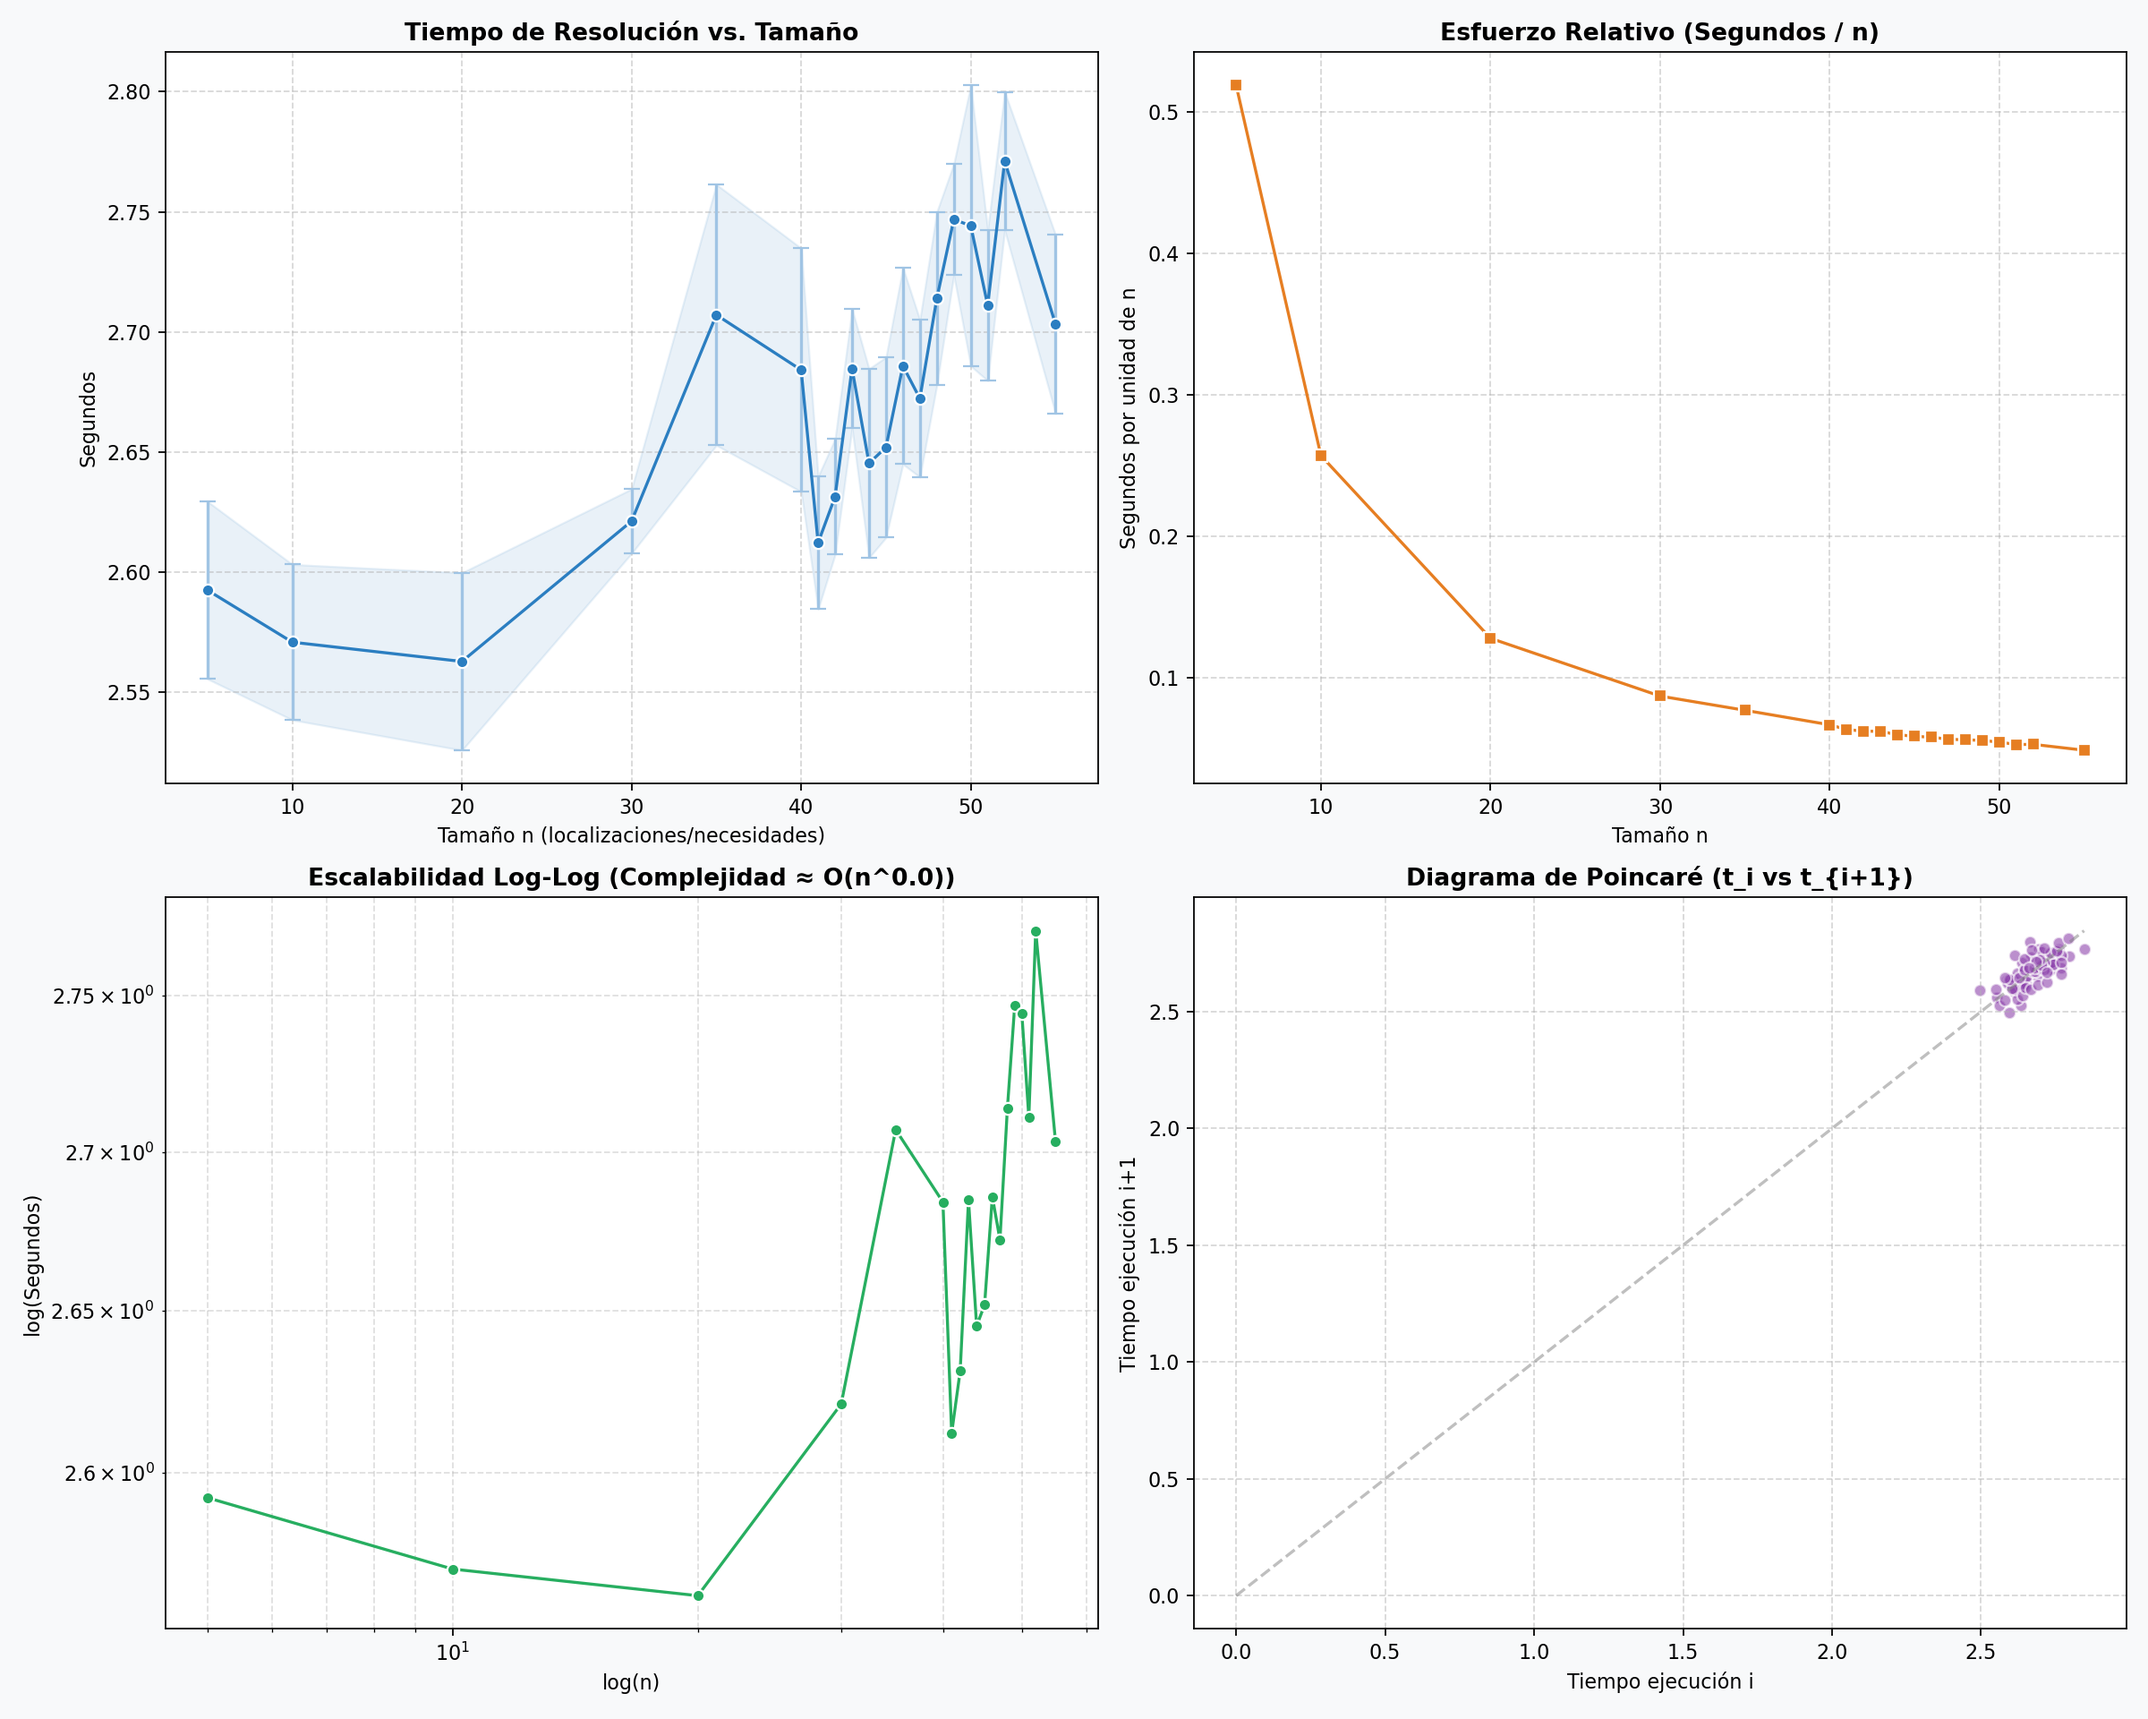
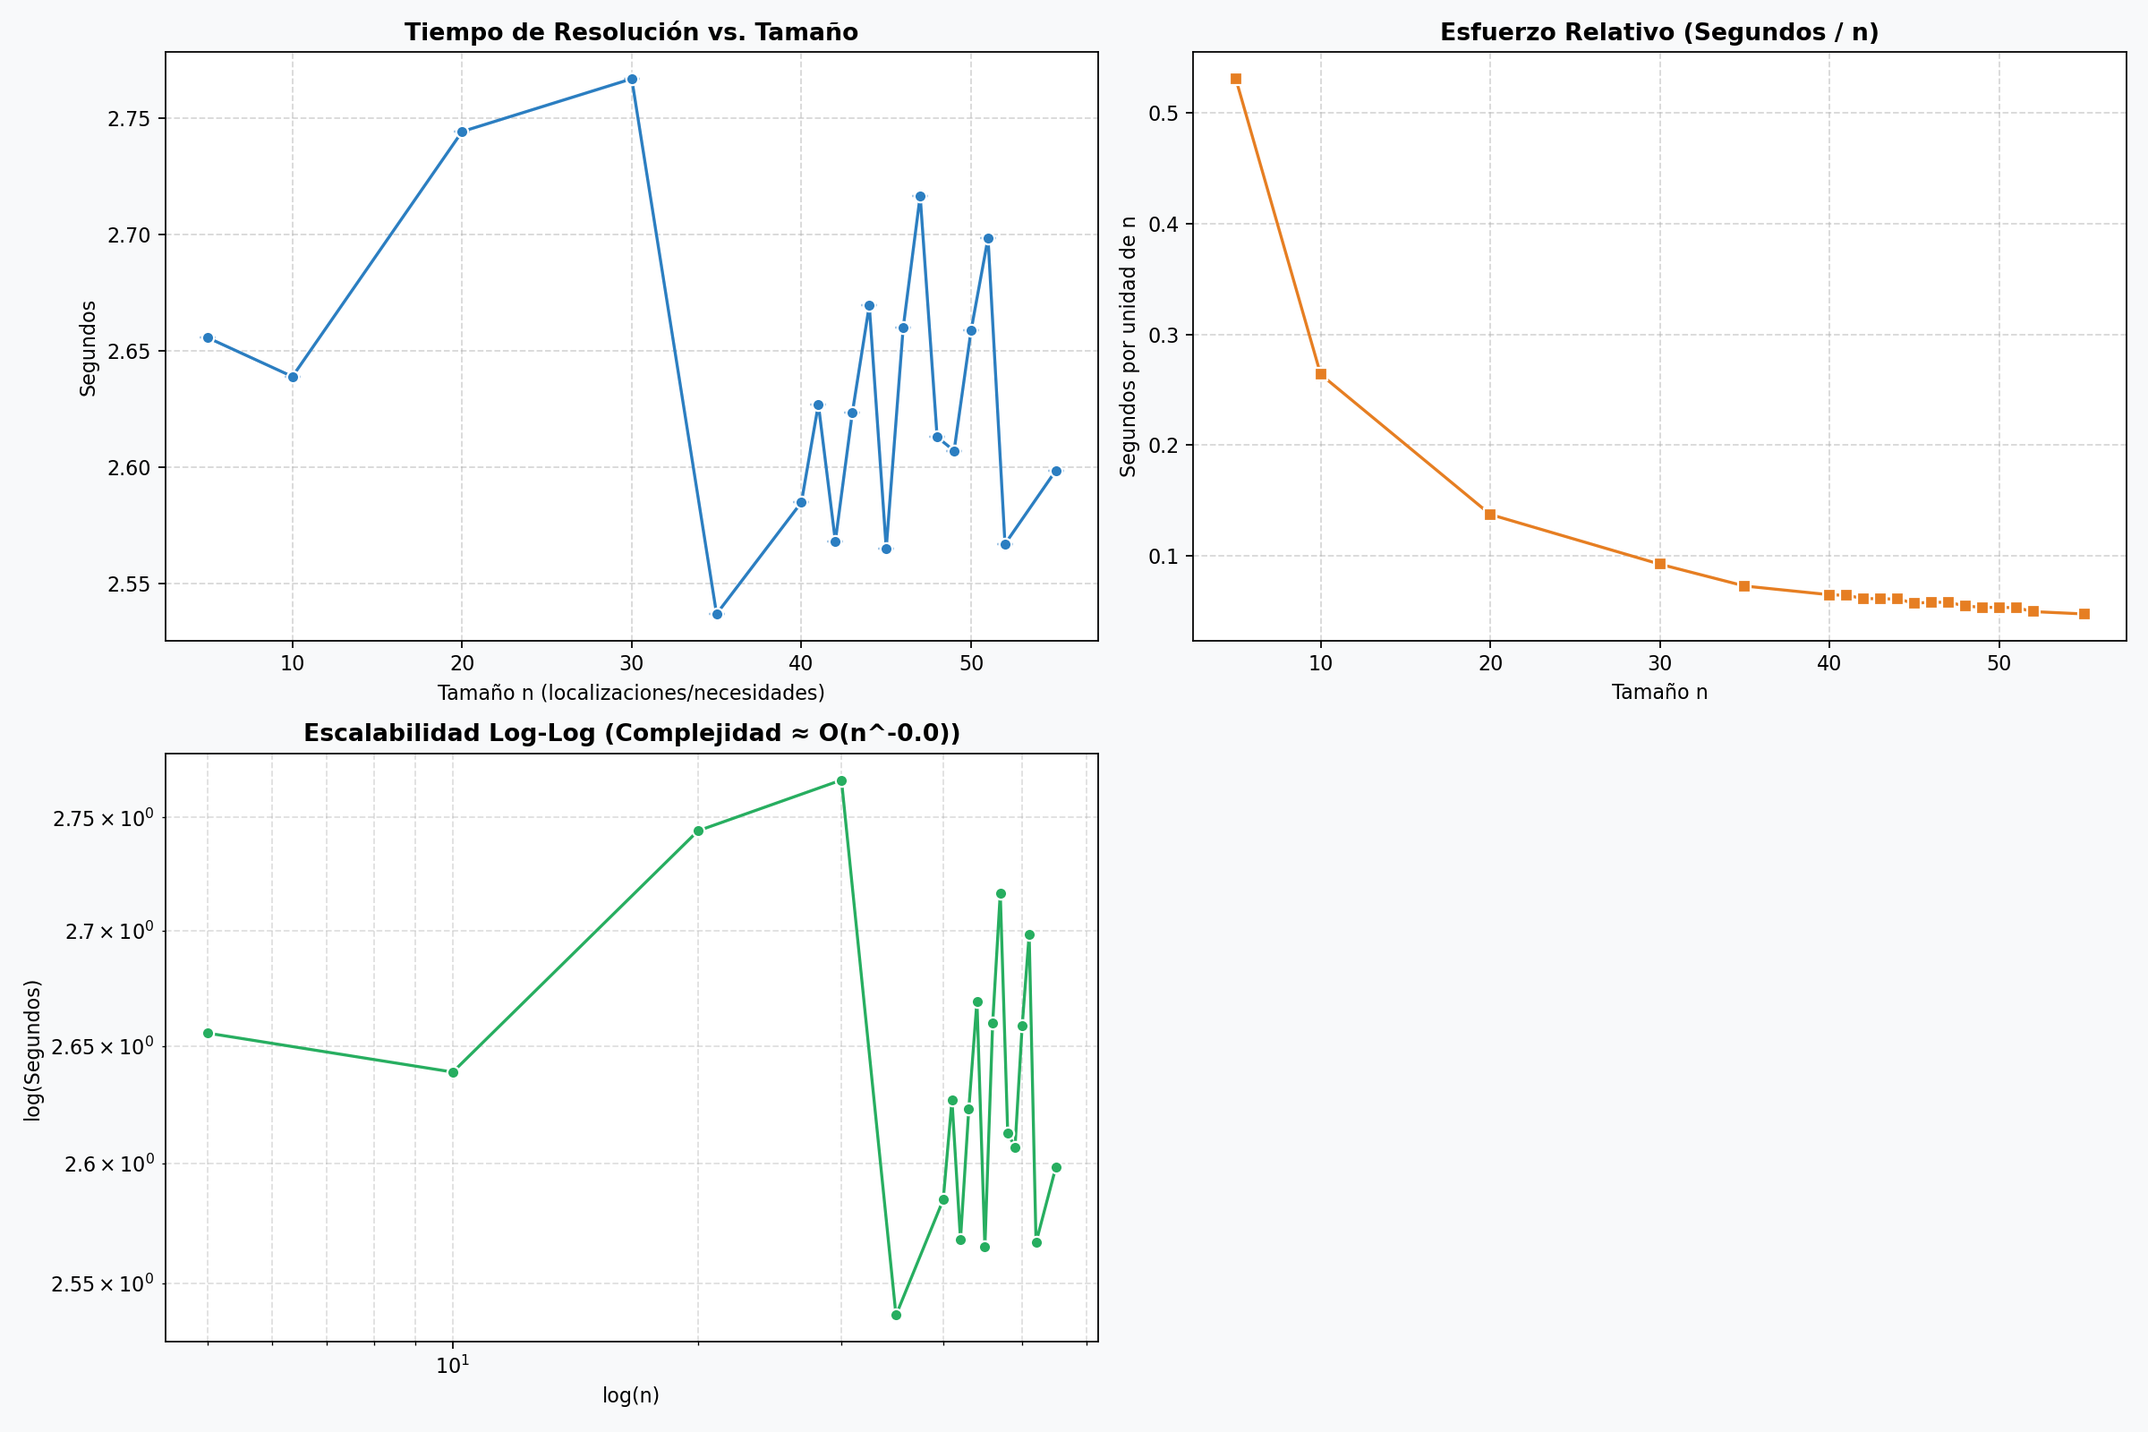
Graficas png

diff --git a/scripts/parte2/benchmark_parte2.py b/scripts/parte2/benchmark_parte2.py
@@ -187,9 +187,9 @@ def plot_advanced(labels, sizes, results, outfile, show_poincare=False):
     if not valid_sizes:
         print("Sin datos suficientes para graficar."); return
 
-    n_rows = 2 if show_poincare else 1
+    n_rows = 2
     n_cols = 2
-    fig, axes = plt.subplots(n_rows, n_cols, figsize=(15, 6 * n_rows))
+    fig, axes = plt.subplots(n_rows, n_cols, figsize=(15, 10))
     fig.patch.set_facecolor("#F8F9FA")
     axes = axes.flatten()
 
